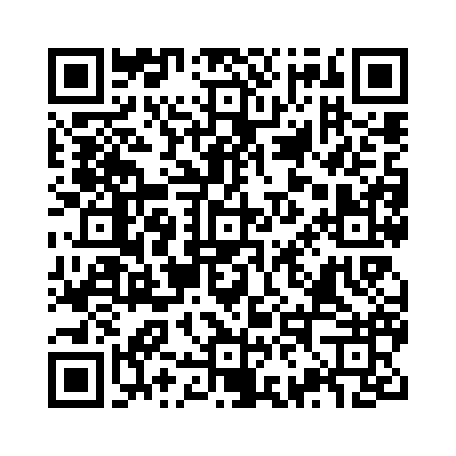
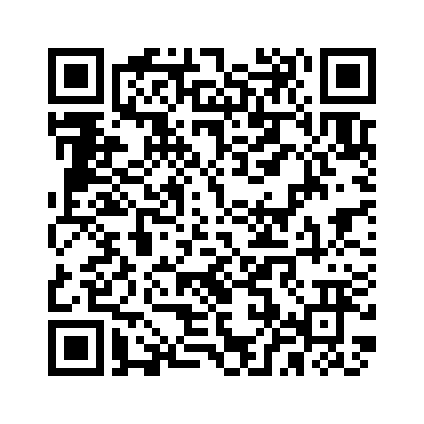
Pass: pay to ssbpsychlab@ybl; promise confirmation within minutes
- New UPI ID in config and a regenerated, decode-verified QR (cache-busted)
- Candidate copy now says payments are confirmed within a few minutes, not 24 hours

Claude-Session: https://claude.ai/code/session_01561Z7swpgaxDnELY7cTM31

diff --git a/js/app.js b/js/app.js
@@ -514,7 +514,7 @@
   function passCard(n) {
     if (!S.pass || passOpen()) return "";
     if (S.pass.status === "pending") return `<section class="card paycard pending"><div class="row" style="justify-content:space-between"><span class="eyebrow" style="color:var(--brass)">Payment under review</span><span class="pill warn">UTR ${maskUtr(S.pass.utr)}</span></div>
-      <p style="margin:0">We've got your ₹${PAY.price} payment details${S.pass.submitted ? ` (sent ${fmtWhen(S.pass.submitted)})` : ""}. Days 2–30 unlock as soon as it's confirmed, usually within 24 hours.</p>
+      <p style="margin:0">We've got your ₹${PAY.price} payment details${S.pass.submitted ? ` (sent ${fmtWhen(S.pass.submitted)})` : ""}. Days 2–30 unlock as soon as it's confirmed, usually within a few minutes.</p>
       <div class="row"><button class="btn quiet" data-paycheck="1">Check status</button></div></section>`;
     const day1 = setNum(n) === 1;
     return `<section class="card paycard"><div class="paycard-in"><div><div class="eyebrow" style="color:var(--olive)">Full program pass · ₹${PAY.price} once</div>
@@ -542,14 +542,14 @@
         <li class="str">No time limit. Take the 30 sets at your own pace</li></ul>
       <div class="pstep"><div class="pnum">1</div><div class="pbody"><b>Pay ₹${PAY.price} by UPI</b>
         ${isPhone() ? `<a class="btn" id="payApp" href="${esc(upiLink())}">Pay ₹${PAY.price} with a UPI app</a><span class="muted" style="font-size:13px">Opens GPay, PhonePe, Paytm or BHIM. If it doesn't open, pay to the UPI ID below.</span>` : `<span class="muted" style="font-size:14px">Scan with any UPI app on your phone.</span>`}
-        <div class="qrwrap"><img class="qr" src="assets/upi-qr.png" alt="UPI QR code to pay ₹${PAY.price} to ${esc(PAY.upiId)}" width="168" height="168"></div>
+        <div class="qrwrap"><img class="qr" src="assets/upi-qr.png?v=2" alt="UPI QR code to pay ₹${PAY.price} to ${esc(PAY.upiId)}" width="168" height="168"></div>
         <div class="upiid"><span class="spec">${esc(PAY.upiId)}</span><button type="button" class="btn quiet" id="payCopy">Copy UPI ID</button></div></div></div>
       <form class="pstep" id="payForm" novalidate><div class="pnum">2</div><div class="pbody"><b>Send us the UTR</b>
         <span class="muted" style="font-size:14px">After paying, open the payment in your UPI app and copy the 12-digit <b>UPI Ref No.</b> (also called UTR).</span>
         <div class="field"><label for="payUtr" class="sr">12-digit UTR</label><input id="payUtr" inputmode="numeric" autocomplete="off" maxlength="16" placeholder="e.g. 431245678901"></div>
         <div class="err" id="payErr" role="alert"></div>
         <button class="btn" type="submit" id="paySend">Submit for verification</button></div></form>
-      <p class="muted" style="font-size:13px;margin:0">We check each payment by hand and unlock your pass, usually within 24 hours. Day 1 stays open meanwhile. Questions: ssbpsychlab@gmail.com</p>
+      <p class="muted" style="font-size:13px;margin:0">We confirm your payment and unlock your pass within a few minutes. Day 1 stays open meanwhile. Questions: ssbpsychlab@gmail.com</p>
       <div class="row" style="justify-content:flex-end"><button class="btn quiet" id="payLater">Maybe later</button></div></div>`);
     m.classList.add("paymodal");
     $("#payX", m).onclick = closeModal; $("#payLater", m).onclick = closeModal;
@@ -575,7 +575,7 @@
     const m = modal(`<div class="eyebrow" style="color:var(--brass)">${justSent ? "Received" : "Payment under review"}</div>
       <h2 style="font-size:26px">${justSent ? "Thanks, we've got it" : "We're checking your payment"}</h2>
       <p style="margin:0">UTR <b class="spec">${esc(S.pass.utr || "")}</b>${S.pass.submitted ? ` · sent ${fmtWhen(S.pass.submitted)}` : ""}.</p>
-      <p style="margin:0">We'll match it with the ₹${PAY.price} in our account and unlock Days 2–30, usually within 24 hours. Day 1 stays open meanwhile.</p>
+      <p style="margin:0">We'll match it with the ₹${PAY.price} in our account and unlock Days 2–30 within a few minutes. Tap Check status to see if it's done.</p>
       <div class="row" style="justify-content:flex-end"><button class="btn quiet" id="pCheck">Check status</button><button class="btn" id="pOk">OK</button></div>`);
     $("#pOk", m).onclick = closeModal; $("#pCheck", m).onclick = (e) => checkPass(e.target, true);
   }

diff --git a/index.html b/index.html
@@ -8,7 +8,7 @@
 <link rel="preconnect" href="https://fonts.googleapis.com">
 <link rel="preconnect" href="https://fonts.gstatic.com" crossorigin>
 <link href="https://fonts.googleapis.com/css2?family=Saira+Condensed:wght@500;600;700&family=Source+Sans+3:wght@400;500;600;700&family=JetBrains+Mono:wght@500;700&display=swap" rel="stylesheet">
-<link rel="stylesheet" href="css/style.css?v=20261120a">
+<link rel="stylesheet" href="css/style.css?v=20261120b">
 </head>
 <body>
 <header class="top">
@@ -41,12 +41,12 @@
 <div id="modalLayer"></div>
 
 <!-- content banks (plain scripts so the app works by double-clicking index.html) -->
-<script src="data/wat.js?v=20261120a"></script>
-<script src="data/srt.js?v=20261120a"></script>
-<script src="data/tat.js?v=20261120a"></script>
-<script src="js/config.js?v=20261120a"></script>
-<script src="js/engine.js?v=20261120a"></script>
-<script src="js/store.js?v=20261120a"></script>
-<script src="js/app.js?v=20261120a"></script>
+<script src="data/wat.js?v=20261120b"></script>
+<script src="data/srt.js?v=20261120b"></script>
+<script src="data/tat.js?v=20261120b"></script>
+<script src="js/config.js?v=20261120b"></script>
+<script src="js/engine.js?v=20261120b"></script>
+<script src="js/store.js?v=20261120b"></script>
+<script src="js/app.js?v=20261120b"></script>
 </body>
 </html>

diff --git a/admin.html b/admin.html
@@ -8,8 +8,8 @@
 <link rel="preconnect" href="https://fonts.googleapis.com">
 <link rel="preconnect" href="https://fonts.gstatic.com" crossorigin>
 <link href="https://fonts.googleapis.com/css2?family=Saira+Condensed:wght@500;600;700&family=Source+Sans+3:wght@400;500;600;700&family=JetBrains+Mono:wght@500;700&display=swap" rel="stylesheet">
-<link rel="stylesheet" href="css/style.css?v=20261120a">
-<link rel="stylesheet" href="css/admin.css?v=20261120a">
+<link rel="stylesheet" href="css/style.css?v=20261120b">
+<link rel="stylesheet" href="css/admin.css?v=20261120b">
 </head>
 <body class="hq">
 <header class="top">
@@ -37,8 +37,8 @@
 <div id="tip" class="vtip" role="tooltip"></div>
 <div id="modalLayer"></div>
 
-<script src="js/config.js?v=20261120a"></script>
-<script src="js/store.js?v=20261120a"></script>
-<script src="js/admin.js?v=20261120a"></script>
+<script src="js/config.js?v=20261120b"></script>
+<script src="js/store.js?v=20261120b"></script>
+<script src="js/admin.js?v=20261120b"></script>
 </body>
 </html>

diff --git a/js/config.js b/js/config.js
@@ -7,7 +7,7 @@ window.SSB_CONFIG = {
   supabaseAnonKey: "eyJhbGciOiJIUzI1NiIsInR5cCI6IkpXVCJ9.eyJpc3MiOiJzdXBhYmFzZSIsInJlZiI6ImxianlpdWVuaXJoeG95ZGZudXJ3Iiwicm9sZSI6ImFub24iLCJpYXQiOjE3OTQ5MjE2MDAsImV4cCI6MjExMDQ5NzYwMH0.R_B47JQpbtj5Fywh89IWckLkX9qDaBh-LPS3kspLmXU",
   // Full-program pass: one UPI payment, checked by hand in HQ → Payments.
   // If you change the UPI ID or price, also regenerate assets/upi-qr.png and update private.settings.pass_price.
-  payment: { upiId: "manideepcanarabank@ybl", payee: "SSB Psych Lab", price: 300 },
+  payment: { upiId: "ssbpsychlab@ybl", payee: "SSB Psych Lab", price: 300 },
   // Feedback is saved in Supabase; a database trigger emails it to ssbpsychlab@gmail.com
   // (address set in the private.settings table, not here).
 };
